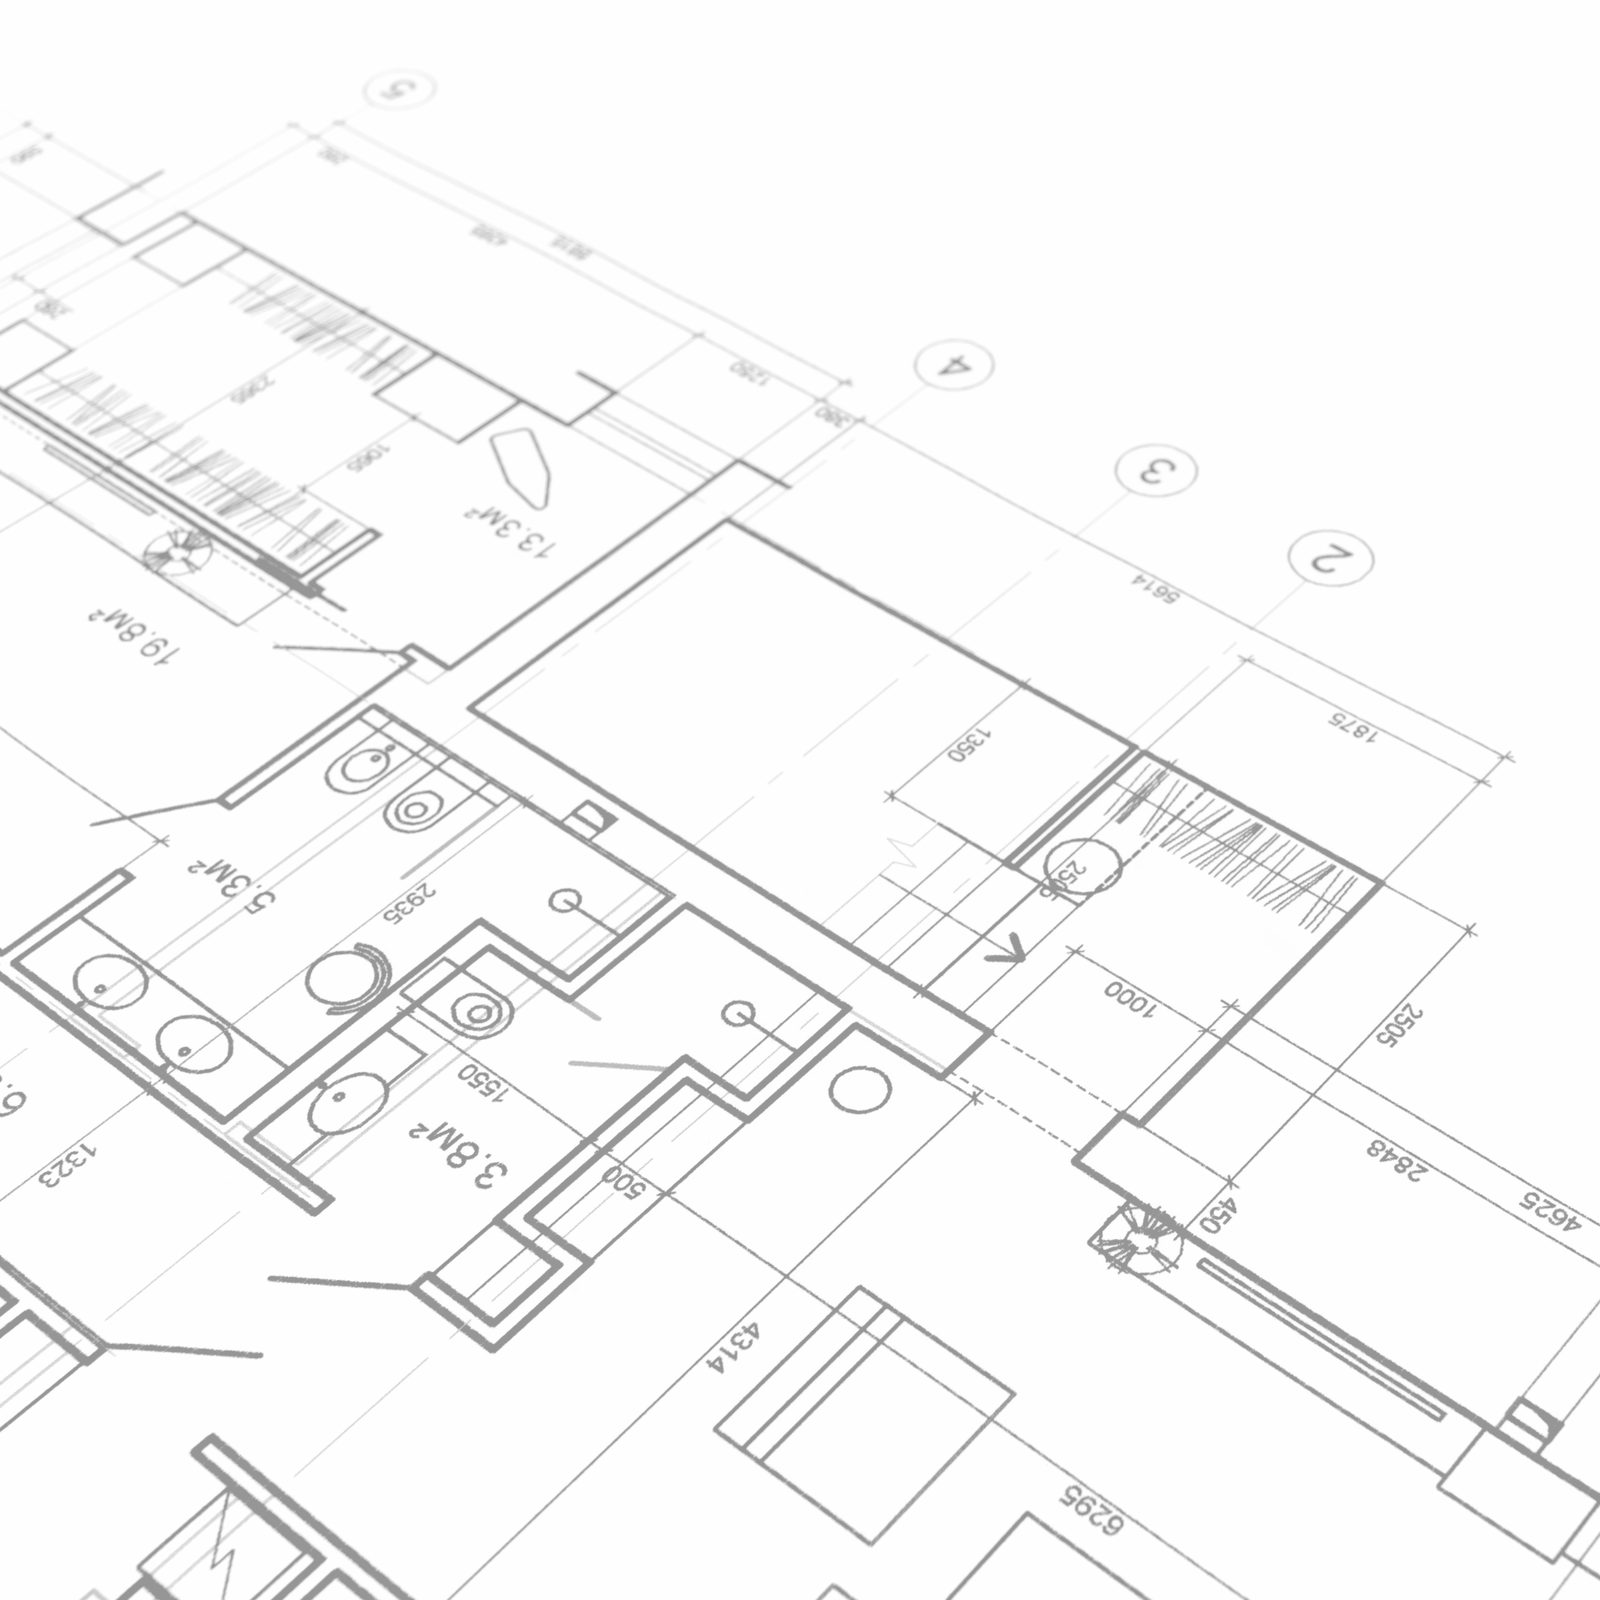
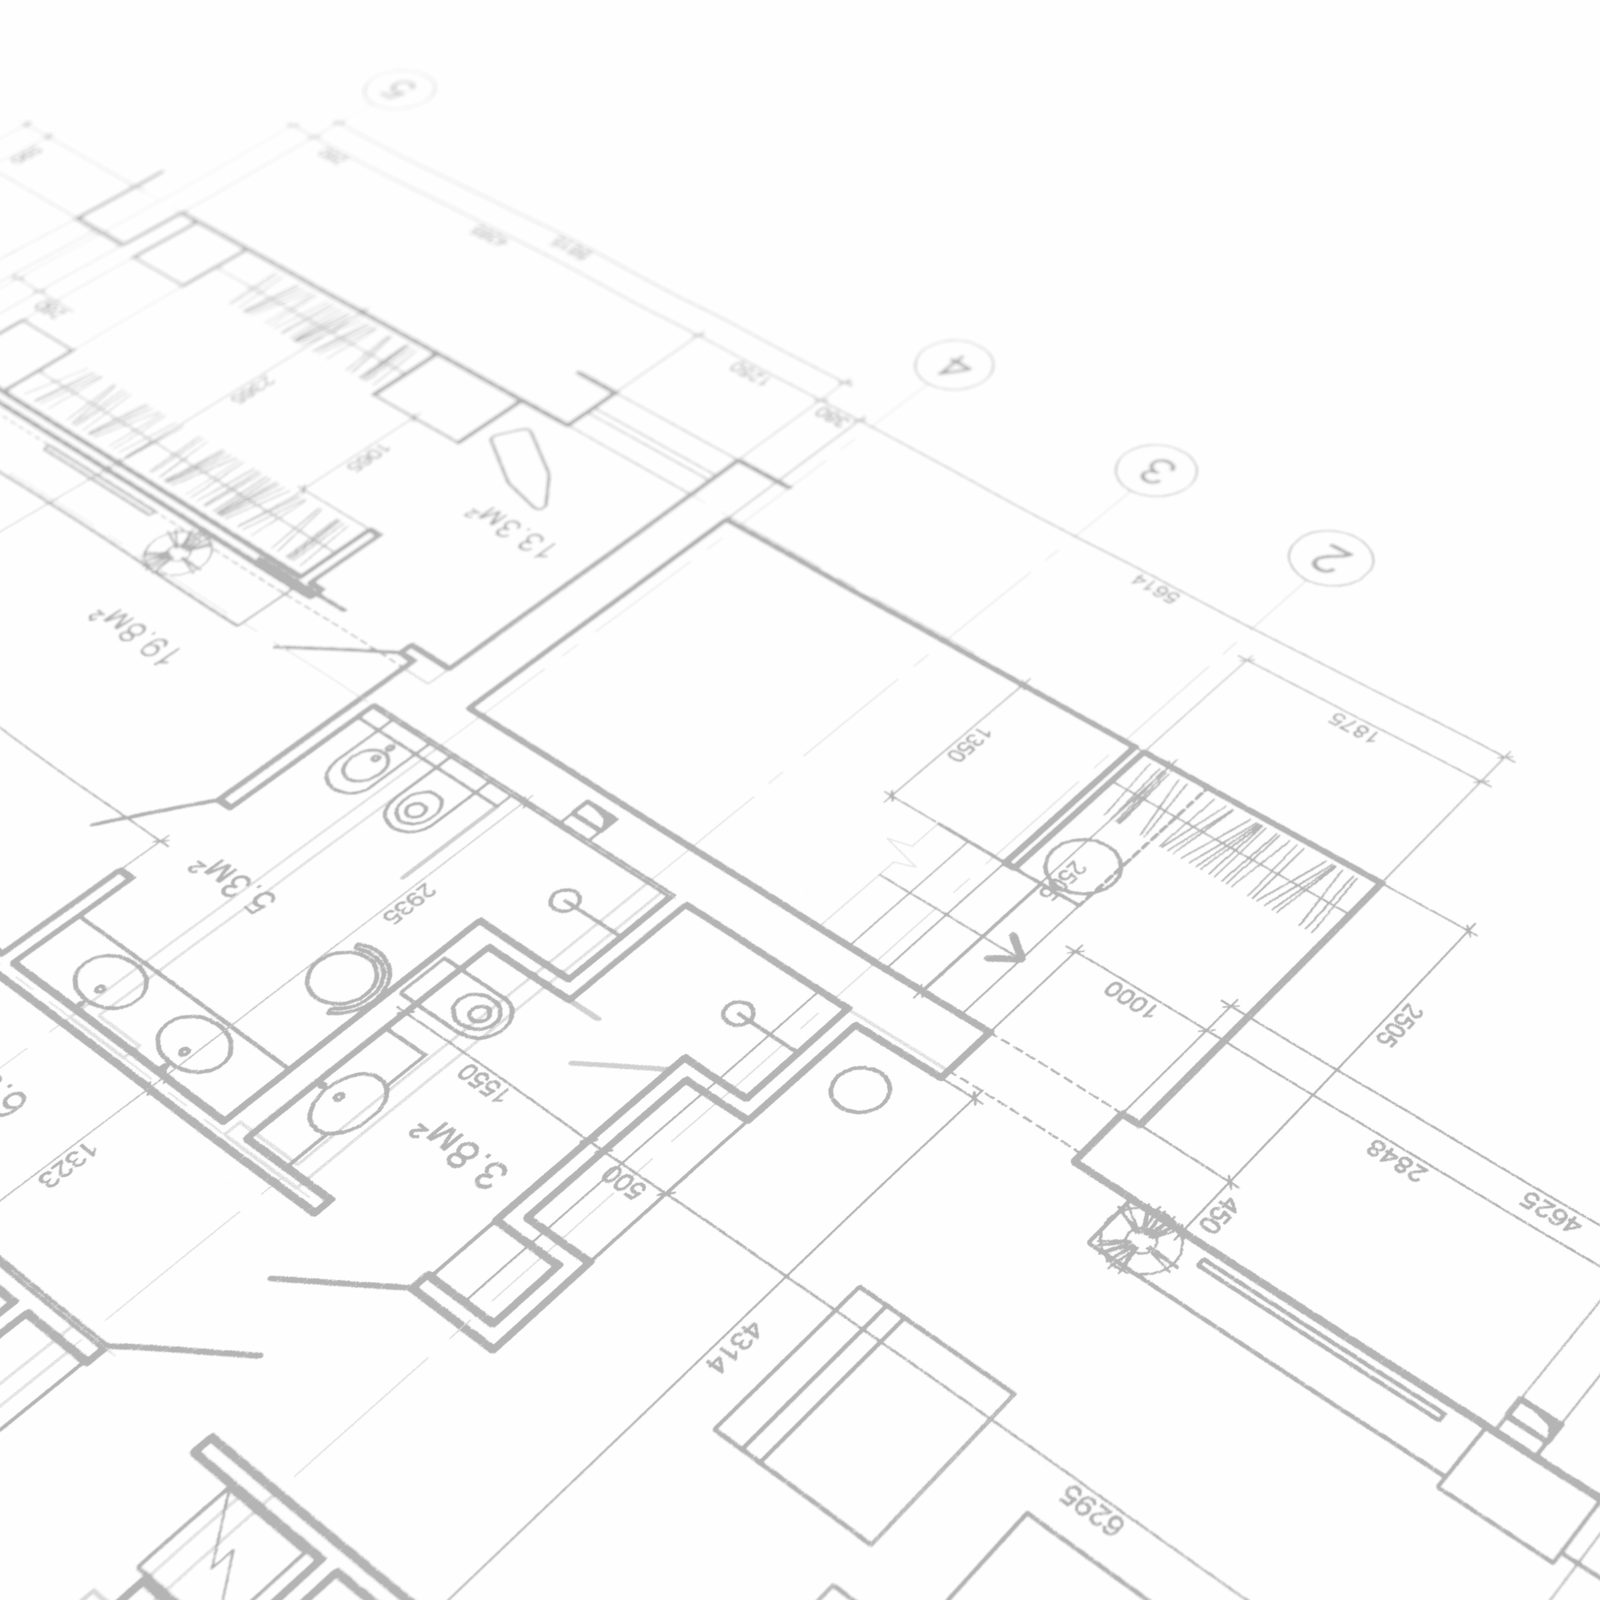
Put the team photograph in the post, at the width of the text
Kim's asset and her direction: smaller than the placeholder it replaces,
and a lighter plan ground behind it.

The banner is now sized to the reading measure - calc(68ch - 48px), the
same width as the copy it introduces - rather than the 920px slab the
placeholder was rendering at. It reads as a figure belonging to the
article instead of a header sitting above it.

The ratio is now data-driven. The photograph is 3:2; the banner slot was
hard-coded to 2:1, and forcing one into the other with object-fit:cover
crops top and bottom, which on a photograph of three people means cropping
heads. posts.json can now declare image_wide_ratio, defaulting to 2:1 for
the placeholder and for any post that does not set it.

Derivatives from the 1536x1024, 3.1MB source: team-1280.jpg (265KB) for
the banner at 2x, team-800.jpg (115KB) for the archive card, which was
already 3:2 and takes the photograph without any crop at all.

Plan ground lightened as asked - black point up from 150 to 180, so the
densest linework now sits at 71% grey rather than 59%, and opacity down
from 0.18 to 0.14. Contrast over it improves rather than degrades, so the
AAA margin from 18fc577 is untouched.

Alt text describes the painted treatment, since that is what a sighted
reader sees; the caption carries the left-to-right identification.

Claude-Session: https://claude.ai/code/session_013jyn575SRbT3agacY9Te2G

diff --git a/blog/welcome-to-the-journal/index.html b/blog/welcome-to-the-journal/index.html
@@ -24,7 +24,7 @@
   <link rel="stylesheet" href="/css/styles.css?v=5">
   <meta property="og:title" content="Welcome to The Journal | Talon Construction Company">
   <meta property="og:description" content="Talon Construction Company is starting to write down the answers we give homeowners every week — about planning, budget, and what building in Nevada County actually involves.">
-  <meta property="og:image" content="https://talonconstructioncompany.com/assets/hero-1920.jpg">
+  <meta property="og:image" content="https://talonconstructioncompany.com/assets/team-1280.jpg">
   <meta property="og:url" content="https://talonconstructioncompany.com/blog/welcome-to-the-journal/">
   <meta property="og:site_name" content="Talon Construction Company">
   <meta property="og:locale" content="en_US">
@@ -32,8 +32,8 @@
   <meta name="twitter:card" content="summary_large_image">
   <meta name="twitter:title" content="Welcome to The Journal | Talon Construction Company">
   <meta name="twitter:description" content="Talon Construction Company is starting to write down the answers we give homeowners every week — about planning, budget, and what building in Nevada County actually involves.">
-  <meta name="twitter:image" content="https://talonconstructioncompany.com/assets/hero-1920.jpg">
-  <meta property="og:image:alt" content="Jordon O&#x27;Hara, Mike Novo and Erik Oxenbol of Talon Construction Company, standing left to right.">
+  <meta name="twitter:image" content="https://talonconstructioncompany.com/assets/team-1280.jpg">
+  <meta property="og:image:alt" content="A painted portrait of Jordon O&#x27;Hara, Mike Novo and Erik Oxenbol of Talon Construction Company, standing together left to right outside a home.">
   <meta name="author" content="Talon Construction Company">
   <meta property="article:published_time" content="2026-09-08">
   <meta property="article:modified_time" content="2026-09-08">
@@ -46,7 +46,7 @@
   "datePublished": "2026-09-08",
   "dateModified": "2026-09-08",
   "description": "Talon Construction Company is starting to write down the answers we give homeowners every week \u2014 about planning, budget, and what building in Nevada County actually involves.",
-  "image": "https://talonconstructioncompany.com/assets/hero-1920.jpg",
+  "image": "https://talonconstructioncompany.com/assets/team-1280.jpg",
   "inLanguage": "en-US",
   "mainEntityOfPage": {
     "@type": "WebPage",
@@ -140,7 +140,7 @@
         <h1>Welcome to The Journal</h1>
         <p class="post-meta"><span class="post-date">September 8, 2026</span> <span class="post-tag">Around Nevada County</span></p>
       </div>
-      <div class="wrap"><div class="post-figure post-figure-placeholder post-figure-wide" aria-hidden="true"><img src="/assets/talon-logo.png" alt="" width="64" height="64"></div></div>
+      <div class="wrap"><figure class="post-figure-figure"><div class="post-figure post-figure-wide" style="aspect-ratio:3 / 2"><img src="/assets/team-1280.jpg" alt="A painted portrait of Jordon O&#x27;Hara, Mike Novo and Erik Oxenbol of Talon Construction Company, standing together left to right outside a home." loading="lazy"></div><figcaption class="post-figure-caption">Left to right: Jordon O'Hara, Mike Novo, founder, and Erik Oxenbol.</figcaption></figure></div>
       <div class="wrap wrap-reading post-body">
       <p>Most of what we know about building in Nevada County was learned on job sites, not in a classroom. This is where we are going to start writing some of it down.</p>
       <p>Homeowners ask us the same questions before a project starts. What will this actually cost? How long will it take? Why does that slope change the foundation? Do I need a permit for this? What happens if we find something once the walls are open? Those are good questions, and they deserve better than a rushed answer over the phone.</p>

diff --git a/css/styles.css b/css/styles.css
@@ -697,7 +697,15 @@ h2 { font-size: clamp(1.7rem, 3.4vw, 2.4rem); }
 /* margin-inline auto matters here: max-height clamps the height, and the
    aspect-ratio then shrinks the width to 920px inside a 1072px column, so
    without it the banner sits left-aligned and 76px off the text centre. */
-.post-figure-wide { aspect-ratio: 2 / 1; max-height: 460px; margin: 0 auto 40px; }
+.post-figure-wide {
+  aspect-ratio: 2 / 1;
+  /* Sized to the reading measure, so the banner is the width of the text
+     it introduces rather than a slab above it. 48px is the .wrap gutter,
+     which .wrap-reading carries inside its 68ch. */
+  max-width: calc(68ch - 48px);
+  max-height: 460px;
+  margin: 0 auto 40px;
+}
 
 /* Holds the slot at the right ratio until Kim's photography lands, so the
    layout does not shift when a real image replaces it. */
@@ -878,7 +886,7 @@ h2 { font-size: clamp(1.7rem, 3.4vw, 2.4rem); }
   z-index: -1;
   background: url("/assets/house-plans.jpg") no-repeat center center;
   background-size: cover;
-  opacity: 0.18;
+  opacity: 0.14;
   pointer-events: none;
 }
 

diff --git a/blog/index.html b/blog/index.html
@@ -119,7 +119,7 @@
         <ul class="post-grid" id="postGrid">
       <li class="post-card" data-tag="Around Nevada County">
         <a class="post-card-link" href="/blog/welcome-to-the-journal/">
-          <div class="post-figure post-figure-placeholder post-figure-card" aria-hidden="true"><img src="/assets/talon-logo.png" alt="" width="64" height="64"></div>
+          <div class="post-figure post-figure-card" style="aspect-ratio:3 / 2"><img src="/assets/team-800.jpg" alt="A painted portrait of Jordon O&#x27;Hara, Mike Novo and Erik Oxenbol of Talon Construction Company, standing together left to right outside a home." loading="lazy"></div>
           <div class="post-card-body">
             <p class="post-card-meta"><span class="post-date">September 8, 2026</span> <span class="post-tag">Around Nevada County</span></p>
             <h2>Welcome to The Journal</h2>

diff --git a/tools/build-blog.py b/tools/build-blog.py
@@ -177,11 +177,18 @@ def figure(post, kind):
     src = post.get("image_wide" if kind == "wide" else "image", "")
     if not src:
         return placeholder(kind)
-    ratio = "2 / 1" if kind == "wide" else "3 / 2"
+    # The banner ratio is the image's own when posts.json declares one. Forcing
+    # every photograph into 2:1 crops it top and bottom, which on a photograph
+    # of people means cropping heads. The default stays 2:1 for the placeholder
+    # and for any post that does not say otherwise.
+    if kind == "wide":
+        ratio = post.get("image_wide_ratio") or "2 / 1"
+    else:
+        ratio = "3 / 2"
     img = (
-        '<div class="post-figure post-figure-%s">'
-        '<img src="%s" alt="%s" loading="lazy" style="aspect-ratio:%s">'
-        "</div>" % (kind, attr(src), attr(post.get("image_alt", "")), ratio)
+        '<div class="post-figure post-figure-%s" style="aspect-ratio:%s">'
+        '<img src="%s" alt="%s" loading="lazy">'
+        "</div>" % (kind, ratio, attr(src), attr(post.get("image_alt", "")))
     )
     # A caption only earns its place on the banner - the archive cards carry
     # their own title and excerpt already.
